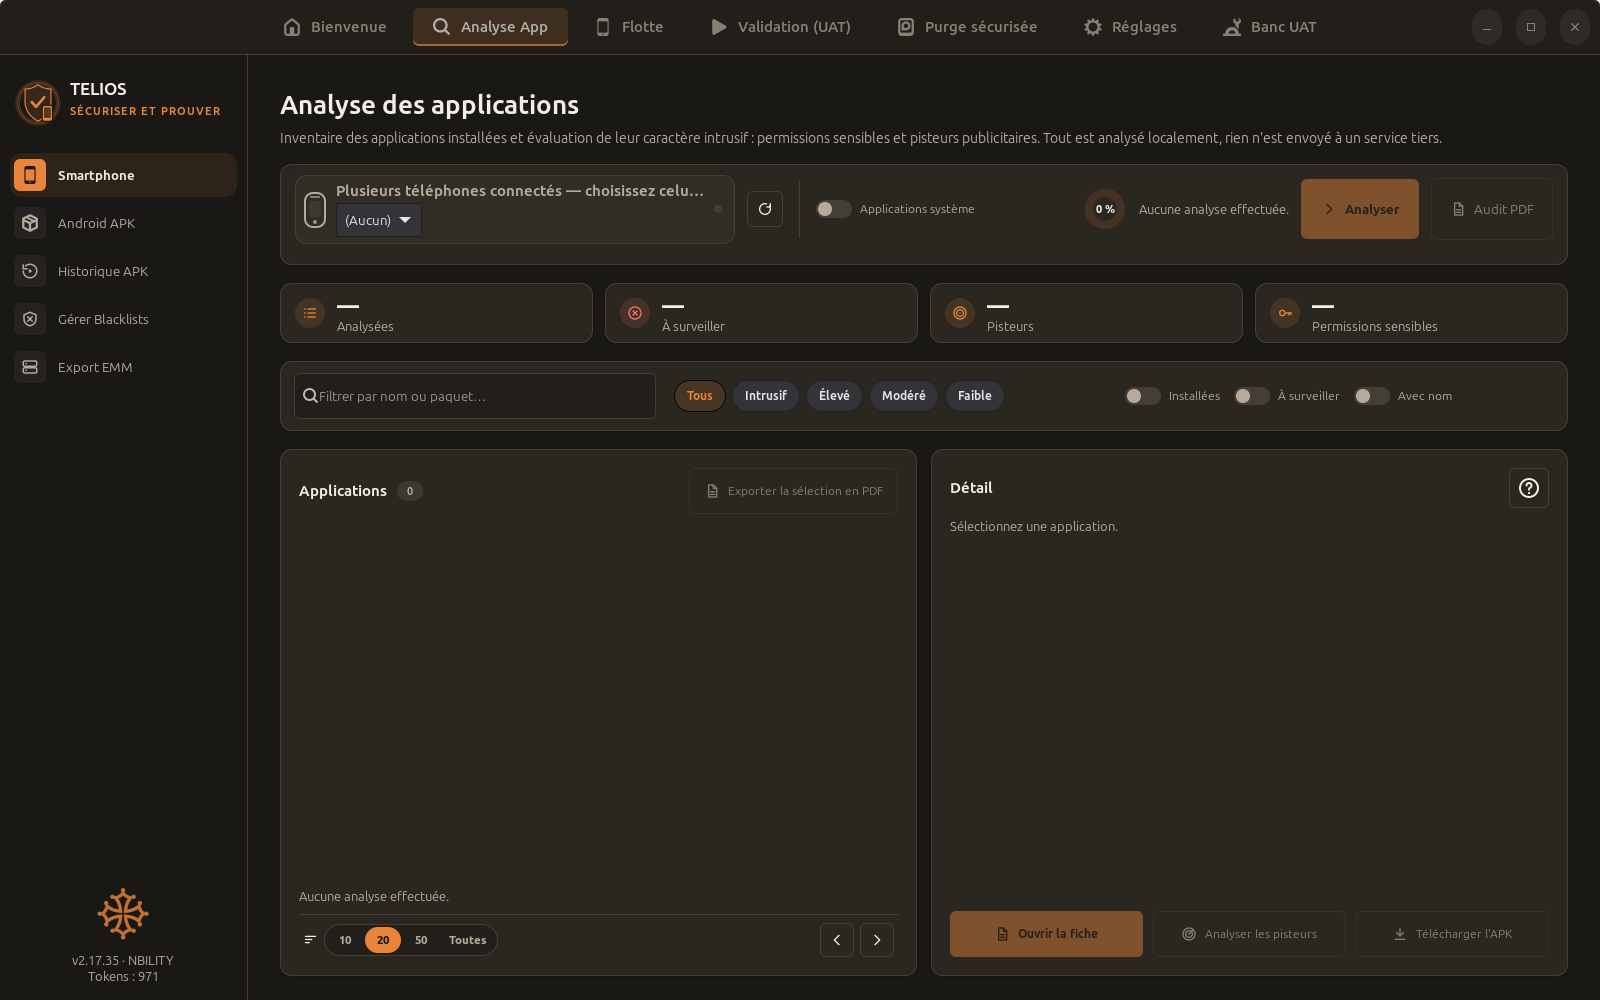
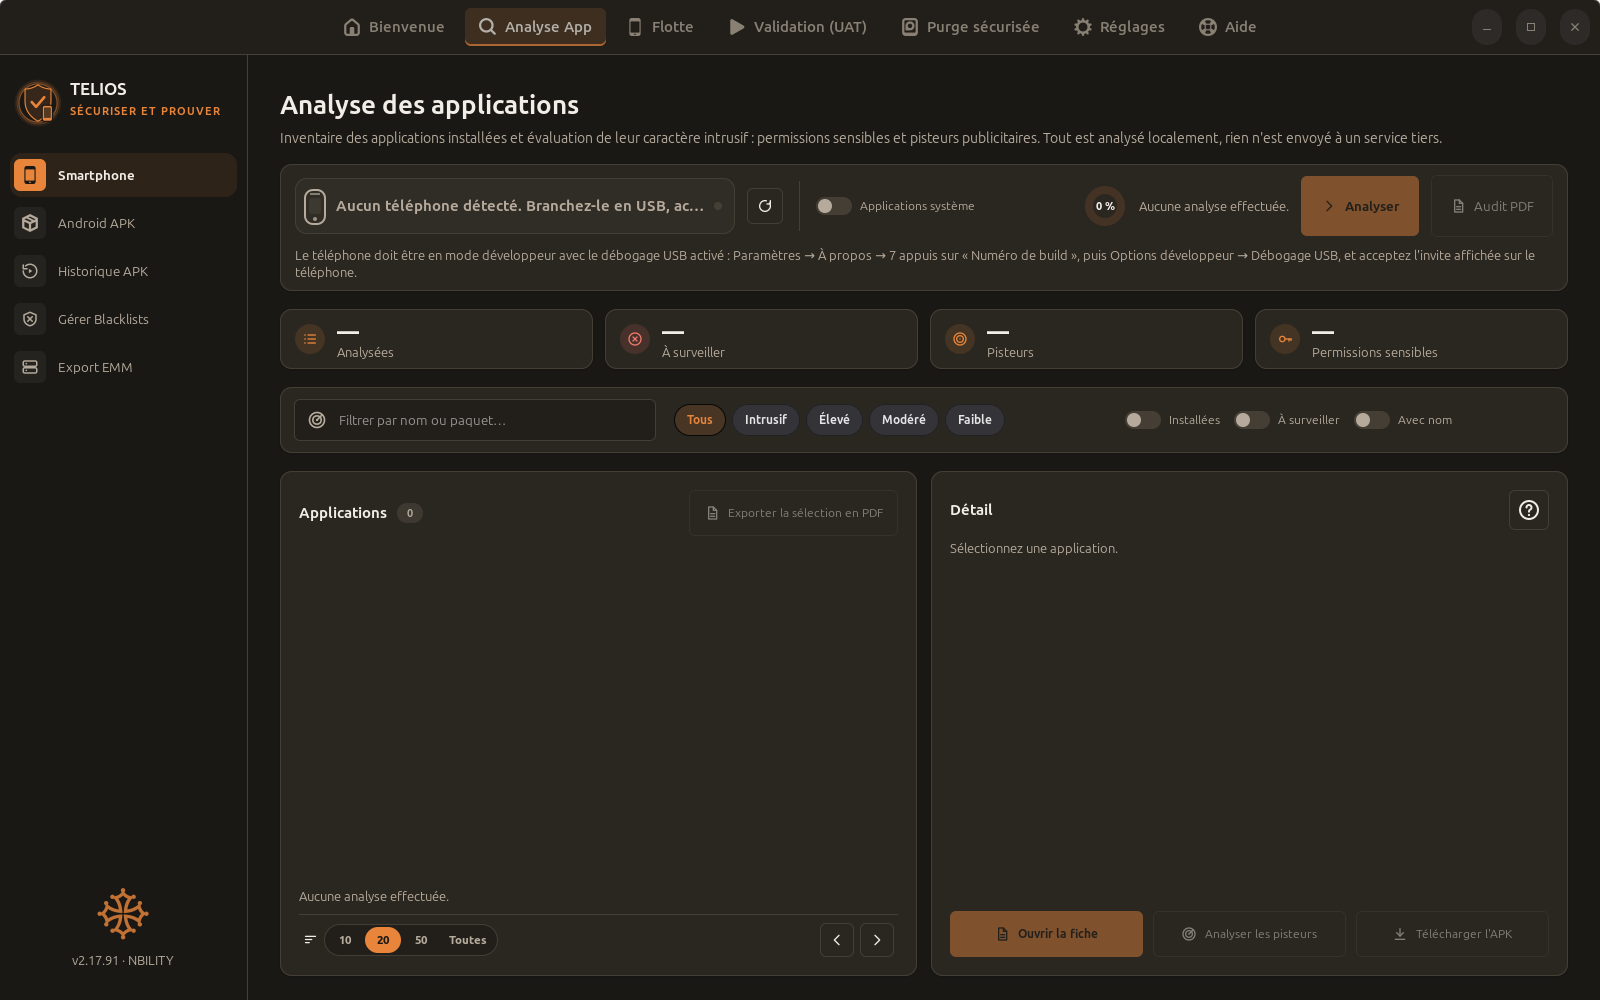
TELIOS 2.17.92

diff --git a/README.md b/README.md
@@ -1,11 +1,11 @@
 <p align="center">
-  <img src="images/banniere-2.17.91.svg" width="100%" alt="TELIOS 2.17.91 — Une ligne, et le poste est prêt. Compatible Linux Mint 21+ et Ubuntu 22.04+.">
+  <img src="images/banniere-2.17.92.svg" width="100%" alt="TELIOS 2.17.92 — Une ligne, et le poste est prêt. Compatible Linux Mint 21+ et Ubuntu 22.04+.">
 </p>
 
 # TELIOS — sécuriser un parc mobile, et pouvoir le prouver
 
-**Dernière version : TELIOS 2.17.91, publiée le 06/11/2026** — signature TELIOS vérifiée ·
-[notes de version](https://github.com/NBILITY-HOME/TELIOS_RELEASES/releases/tag/v2.17.91)
+**Dernière version : TELIOS 2.17.92, publiée le 06/11/2026** — signature TELIOS vérifiée ·
+[notes de version](https://github.com/NBILITY-HOME/TELIOS_RELEASES/releases/tag/v2.17.92)
 
 TELIOS est l'outil de NBILITY pour auditer, préparer et assainir des
 smartphones Android depuis un poste Linux Mint ou Ubuntu. Il s'adresse aux
@@ -46,7 +46,7 @@ wget -O install.sh https://raw.githubusercontent.com/NBILITY-HOME/TELIOS_RELEASE
 ```
 
 <p align="center">
-  <img src="images/six-etapes.svg?v=2.17.91" width="100%" alt="Les six étapes : préparer le poste, lancer l'installation, laisser faire l'installateur, activer le poste, compléter les outils, rester à jour.">
+  <img src="images/six-etapes.svg?v=2.17.92" width="100%" alt="Les six étapes : préparer le poste, lancer l'installation, laisser faire l'installateur, activer le poste, compléter les outils, rester à jour.">
 </p>
 
 <details>
@@ -93,11 +93,11 @@ publiée, à partir du manifeste signé.
 
 ## Un aperçu
 
-![Bienvenue](images/bienvenue.png?v=2.17.91)
+![Bienvenue](images/bienvenue.png?v=2.17.92)
 
-![Aperçu de la flotte](images/flotte-apercu.png?v=2.17.91)
+![Aperçu de la flotte](images/flotte-apercu.png?v=2.17.92)
 
-![Analyse d'un téléphone](images/analyse.png?v=2.17.91)
+![Analyse d'un téléphone](images/analyse.png?v=2.17.92)
 
 ## Contact
 
